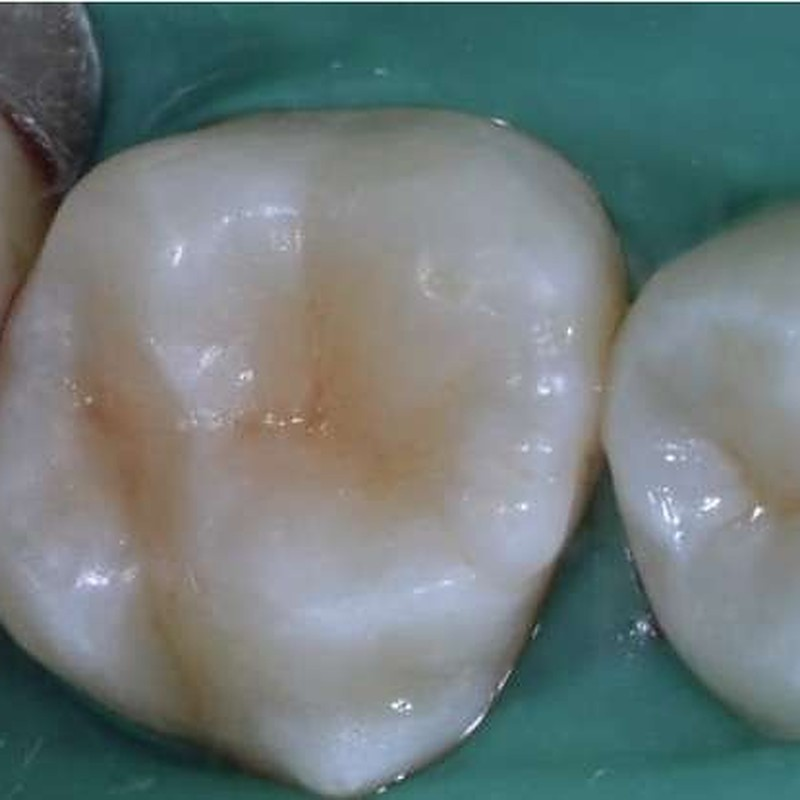
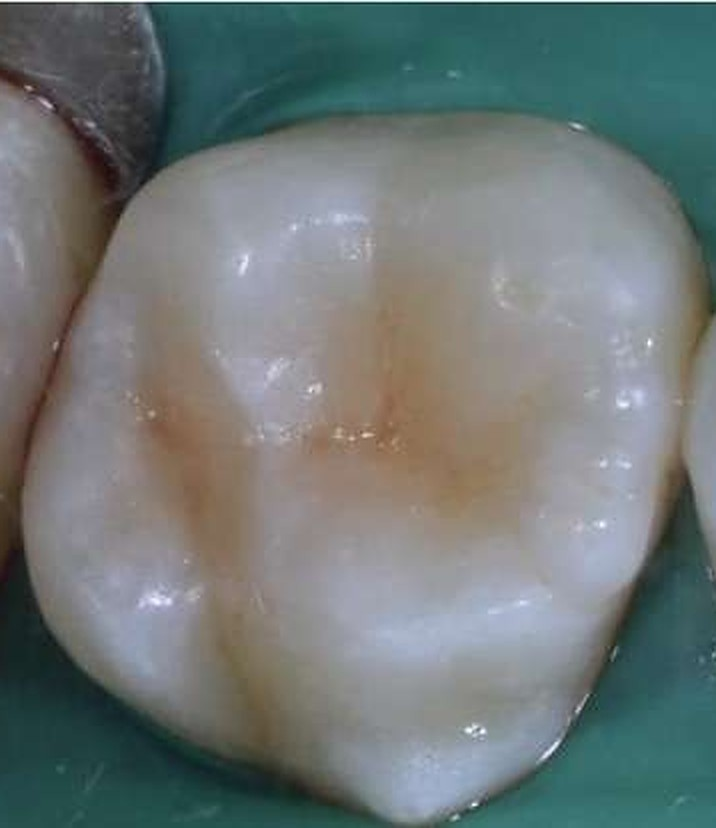
Показати на картці терапії лише середній зуб, без обрізання
Кадр перекадровано впритул до середнього моляра: у рамку потрапляє
тільки він, сусідні зуби лишилися за краєм.

Причина, чому зуб «обрізався», була не у фото, а в пропорціях картки.
Вона розтягувалася від 0.86 на десктопі до 0.47 на 768 px — три
колонки по 216 px завширшки при висоті 460. У такій вузькій рамці
object-cover зрізає боки зображення, і зуб втрачав половину.

Третя колонка тепер вмикається лише з lg, а висоту картки підібрано
по брейкпойнтах так, щоб пропорції всюди трималися 0.81–0.90 —
близько до пропорцій самого кадру. Перевірено на 390, 640, 768,
1024, 1280, 1440 і 1920: зуб цілий на кожній ширині.

Claude-Session: https://claude.ai/code/session_0146WkEYk3Czcg6RxcMk6tHZ

diff --git a/src/components/sections/services.tsx b/src/components/sections/services.tsx
@@ -19,7 +19,10 @@ function ServiceCard({ service, index }: { service: Service; index: number }) {
         "hover:-translate-y-1.5 focus-visible:outline-none focus-visible:ring-2 focus-visible:ring-ink/70 focus-visible:ring-offset-2",
         "h-full",
         hasImage
-          ? "min-h-[420px] bg-ink text-white shadow-[0_30px_80px_-50px_rgba(17,17,17,0.6)] md:min-h-[460px]"
+          ? /* Висота підібрана так, щоб пропорції картки на всіх ширинах
+               трималися близько 0.85: у вужчій рамці object-cover зрізає
+               боки фото — саме через це «обрізався» зуб на терапії. */
+            "min-h-[420px] bg-ink text-white shadow-[0_30px_80px_-50px_rgba(17,17,17,0.6)] sm:min-h-[350px] md:min-h-[390px] lg:min-h-[355px] xl:min-h-[440px]"
           : "min-h-[300px] bg-mist text-ink hairline hover:border-sand/60 hover:bg-cream hover:shadow-[0_30px_70px_-45px_rgba(17,17,17,0.45)]",
       )}
     >
@@ -126,7 +129,9 @@ export function Services() {
           }
         />
 
-        <div className="mt-14 grid gap-4 sm:grid-cols-2 md:mt-20 md:grid-cols-3 md:gap-5">
+        {/* Третя колонка лише з lg: на 768 px три картки давали смужки
+            216 px завширшки при висоті 460 — фото в них не виживало. */}
+        <div className="mt-14 grid gap-4 sm:grid-cols-2 md:mt-20 md:gap-5 lg:grid-cols-3">
           {services.map((service, i) => (
             <Reveal
               key={service.id}
